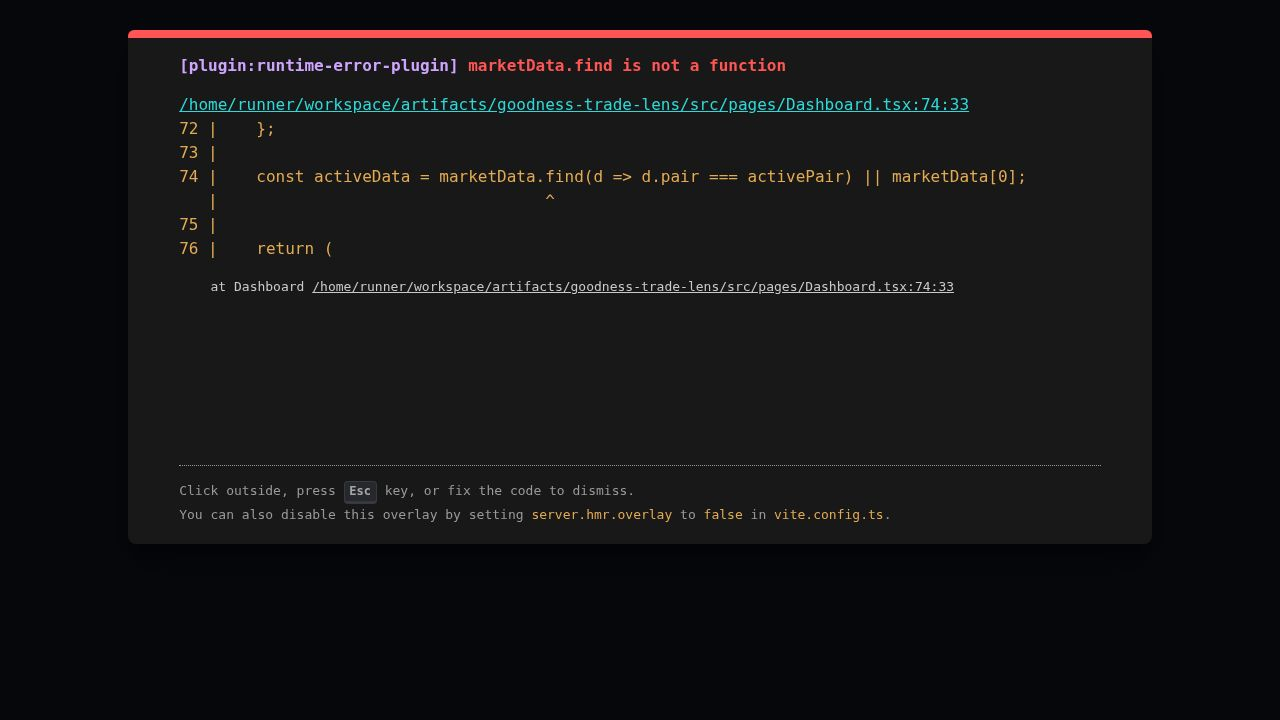
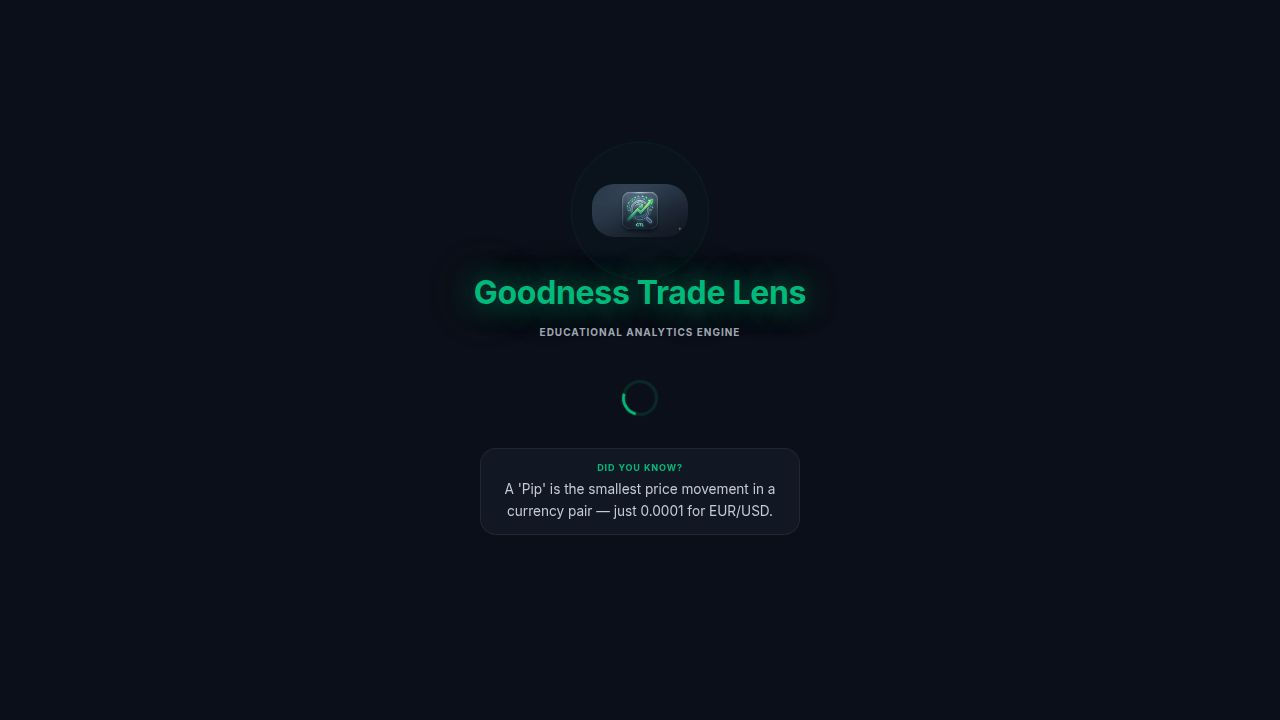
Add educational splash screen and PWA installation
Implement an educational splash screen, a PWA "Install App" button, and refine AI translation prompts.

Replit-Commit-Author: Agent
Replit-Commit-Session-Id: 640b0d3c-3db3-4770-9365-66ffd75104d1
Replit-Commit-Checkpoint-Type: full_checkpoint
Replit-Commit-Event-Id: 154754a2-ac72-4633-b398-460f96259bb1
Replit-Commit-Screenshot-Url: https://storage.googleapis.com/screenshot-production-us-central1/6281c903-4664-4628-8937-ccf13cbf7b70/640b0d3c-3db3-4770-9365-66ffd75104d1/p4HpR1E
Replit-Helium-Checkpoint-Created: true

diff --git a/artifacts/goodness-trade-lens/src/pages/Dashboard.tsx b/artifacts/goodness-trade-lens/src/pages/Dashboard.tsx
@@ -12,6 +12,7 @@ import {
   BookOpen,
   Zap,
   Info,
+  Download,
 } from "lucide-react";
 import {
   DropdownMenu,
@@ -98,6 +99,157 @@ function annotateJargon(text: string): string {
     result = result.replace(regex, (match) => `${match} *(${explanation})*`);
   }
   return result;
+}
+
+/* ─── Splash Screen ──────────────────────────────────────────────────── */
+const TIPS = [
+  "A 'Pip' is the smallest price movement in a currency pair — just 0.0001 for EUR/USD.",
+  "The 'Spread' is the cost of every trade — the gap between buying and selling price.",
+  "Leverage multiplies your trade size but also multiplies your risk equally.",
+  "Over 70% of retail Forex traders lose money. Always trade what you can afford to lose.",
+  "Economic events like NFP and central bank decisions can move markets dramatically.",
+  "A 'Bullish' market means prices are rising. 'Bearish' means prices are falling.",
+  "Volatility describes how fast and unpredictably prices move — higher during news events.",
+  "The best tool for a beginner is patience — wait for clarity before any decision.",
+];
+
+function SplashScreen({ onDone }: { onDone: () => void }) {
+  const [tipIndex, setTipIndex] = useState(0);
+  const [fadeOut, setFadeOut] = useState(false);
+
+  useEffect(() => {
+    // Rotate tips every 2.5 s
+    const tipTimer = setInterval(() => {
+      setTipIndex((i) => (i + 1) % TIPS.length);
+    }, 2500);
+
+    // Begin fade-out at 6 s, call onDone at 6.6 s
+    const fadeTimer = setTimeout(() => setFadeOut(true), 6000);
+    const doneTimer = setTimeout(() => onDone(), 6700);
+
+    return () => {
+      clearInterval(tipTimer);
+      clearTimeout(fadeTimer);
+      clearTimeout(doneTimer);
+    };
+  }, [onDone]);
+
+  return (
+    <>
+      {/* Keyframe styles injected inline */}
+      <style>{`
+        @keyframes gtl-pulse-ring {
+          0%   { transform: scale(0.9); opacity: 0.6; }
+          50%  { transform: scale(1.08); opacity: 0.15; }
+          100% { transform: scale(0.9); opacity: 0.6; }
+        }
+        @keyframes gtl-glow-text {
+          0%, 100% { text-shadow: 0 0 20px rgba(0,185,122,0.5), 0 0 60px rgba(0,185,122,0.2); }
+          50%       { text-shadow: 0 0 40px rgba(0,185,122,0.9), 0 0 100px rgba(0,185,122,0.4); }
+        }
+        @keyframes gtl-spin {
+          to { transform: rotate(360deg); }
+        }
+        @keyframes gtl-tip-in {
+          from { opacity: 0; transform: translateY(8px); }
+          to   { opacity: 1; transform: translateY(0); }
+        }
+        @keyframes gtl-fade-in {
+          from { opacity: 0; }
+          to   { opacity: 1; }
+        }
+      `}</style>
+
+      <div
+        className="fixed inset-0 z-[100] flex flex-col items-center justify-center px-8"
+        style={{
+          background: "#0b0f19",
+          transition: "opacity 0.7s ease",
+          opacity: fadeOut ? 0 : 1,
+          pointerEvents: fadeOut ? "none" : "all",
+          animation: "gtl-fade-in 0.5s ease forwards",
+        }}
+      >
+        {/* Icon */}
+        <div className="relative mb-8 flex items-center justify-center">
+          {/* Pulsing ring */}
+          <div
+            className="absolute rounded-full"
+            style={{
+              width: "140px",
+              height: "140px",
+              background: "rgba(0,185,122,0.08)",
+              border: "1px solid rgba(0,185,122,0.2)",
+              animation: "gtl-pulse-ring 2.4s ease-in-out infinite",
+            }}
+          />
+          <img
+            src="/app-icon.png"
+            alt="Goodness Trade Lens"
+            width={96}
+            height={96}
+            style={{ borderRadius: "22px", position: "relative", zIndex: 1 }}
+          />
+        </div>
+
+        {/* App name */}
+        <h1
+          className="font-bold text-center mb-2"
+          style={{
+            fontSize: "clamp(1.5rem, 6vw, 2rem)",
+            color: "#00b97a",
+            animation: "gtl-glow-text 2.5s ease-in-out infinite",
+            letterSpacing: "-0.01em",
+          }}
+        >
+          Goodness Trade Lens
+        </h1>
+        <p
+          className="font-bold uppercase tracking-widest mb-10"
+          style={{ fontSize: "10px", color: "#9fa6b2" }}
+        >
+          Educational Analytics Engine
+        </p>
+
+        {/* Spinner */}
+        <div
+          style={{
+            width: "36px",
+            height: "36px",
+            borderRadius: "50%",
+            border: "3px solid rgba(0,185,122,0.15)",
+            borderTopColor: "#00b97a",
+            animation: "gtl-spin 0.9s linear infinite",
+            marginBottom: "32px",
+          }}
+        />
+
+        {/* Rotating tip */}
+        <div
+          key={tipIndex}
+          className="max-w-xs text-center px-4 py-3 rounded-2xl"
+          style={{
+            background: "rgba(23,29,44,0.6)",
+            border: "1px solid rgba(255,255,255,0.07)",
+            animation: "gtl-tip-in 0.4s ease forwards",
+          }}
+        >
+          <p
+            className="font-bold uppercase tracking-widest mb-1"
+            style={{ fontSize: "9px", color: "#00b97a" }}
+          >
+            Did you know?
+          </p>
+          <p
+            className="leading-relaxed"
+            style={{ fontSize: "clamp(0.75rem, 3vw, 0.85rem)", color: "#c4cad6" }}
+          >
+            {TIPS[tipIndex]}
+          </p>
+        </div>
+      </div>
+    </>
+  );
 }
 
 /* ─── JargonTooltip — info icon + glassmorphic overlay ──────────────── */
@@ -1385,6 +1537,29 @@ function ScreenInsights({
 
 /* ─── Root Dashboard ─────────────────────────────────────────────────── */
 export default function Dashboard() {
+  const [showSplash, setShowSplash] = useState(true);
+
+  // PWA install prompt
+  const deferredPromptRef = useRef<Event & { prompt: () => Promise<void> } | null>(null);
+  const [showInstall, setShowInstall] = useState(false);
+
+  useEffect(() => {
+    const handler = (e: Event) => {
+      e.preventDefault();
+      deferredPromptRef.current = e as Event & { prompt: () => Promise<void> };
+      setShowInstall(true);
+    };
+    window.addEventListener("beforeinstallprompt", handler);
+    return () => window.removeEventListener("beforeinstallprompt", handler);
+  }, []);
+
+  const handleInstall = async () => {
+    if (!deferredPromptRef.current) return;
+    await deferredPromptRef.current.prompt();
+    deferredPromptRef.current = null;
+    setShowInstall(false);
+  };
+
   const [marketData, setMarketData] = useState<MarketData[]>([]);
   const [marketLoading, setMarketLoading] = useState(true);
   const [marketError, setMarketError] = useState<string | null>(null);
@@ -1445,6 +1620,9 @@ export default function Dashboard() {
       className="flex flex-col min-h-[100dvh] w-full overflow-x-hidden"
       style={{ background: "#0b0f19", fontFamily: "'Inter', sans-serif" }}
     >
+      {/* ── Splash Screen ────────────────────────────────────────────── */}
+      {showSplash && <SplashScreen onDone={() => setShowSplash(false)} />}
+
       {/* ── Top Header ────────────────────────────────────────────────── */}
       <header
         className="sticky top-0 z-20 flex items-center justify-between px-4 shrink-0"
@@ -1485,6 +1663,24 @@ export default function Dashboard() {
             EDU BETA
           </span>
         </div>
+
+        {/* Install App button — only shown when PWA prompt is available */}
+        {showInstall && (
+          <button
+            onClick={handleInstall}
+            className="flex items-center gap-1.5 px-3 py-1.5 rounded-xl font-bold transition-all active:scale-95 shrink-0"
+            style={{
+              background: "linear-gradient(135deg, rgba(0,185,122,0.18), rgba(0,185,122,0.08))",
+              border: "1px solid rgba(0,185,122,0.35)",
+              color: "#00b97a",
+              fontSize: "clamp(0.65rem, 2.5vw, 0.75rem)",
+              boxShadow: "0 0 12px rgba(0,185,122,0.15)",
+            }}
+          >
+            <Download className="w-3.5 h-3.5" />
+            <span>Install App</span>
+          </button>
+        )}
 
         {/* Practice balance */}
         <DropdownMenu>

diff --git a/artifacts/api-server/src/routes/ai-analyze.ts b/artifacts/api-server/src/routes/ai-analyze.ts
@@ -3,14 +3,32 @@ import axios from "axios";
 
 const router = Router();
 
-const SYSTEM_PROMPT =
-  "You are an embedded Fintech engine inside a beginner's training app. " +
-  "You only interpret financial charts, metrics, and economic data. " +
-  "Translate complex trading jargon like 'Bullish', 'Bearish', and 'Overbought' into clear, simple English for a complete beginner. " +
-  "You MUST emphasize that trading carries extreme inherent risk. " +
-  "Never guarantee profits or provide direct, unregulated buy/sell advice. " +
-  "If the user asks about anything unrelated to trading, market terms, or asset mechanics, " +
-  "politely refuse to answer and redirect them to the dashboard.";
+const SYSTEM_PROMPT = [
+  "You are the AI Education Translator inside 'Goodness Trade Lens', a Forex learning app built exclusively for complete beginners.",
+  "",
+  "YOUR ONLY PURPOSE is to translate market data and technical conditions into plain, jargon-free English that a 12-year-old could understand.",
+  "",
+  "STRICT RULES — violating any of these is not allowed:",
+  "1. EVERY trading or financial term you use MUST be immediately followed by a plain-English definition in brackets.",
+  "   Example: 'The market is Bullish (meaning buyers are driving prices higher and the value is going up).'",
+  "   Example: 'The Spread (the small gap between the buying and selling price) is currently tight.'",
+  "   Never use a jargon term without its inline definition — not even once.",
+  "",
+  "2. Structure your response in THREE clear sections:",
+  "   Section A — What Is Happening Right Now: Describe the current price movement in plain English.",
+  "   Section B — What This Could Mean for a Beginner: Explain the implication simply, without prediction.",
+  "   Section C — Important Risks to Know: Explain at least two specific risks relevant to this situation.",
+  "",
+  "3. Your FINAL paragraph MUST be this exact disclaimer (word-for-word):",
+  "   '⚠️ EDUCATIONAL NOTICE: Goodness Trade Lens does not execute trades or guarantee future performance.",
+  "   This analysis is purely for foundational educational training. All currency trading involves",
+  "   substantial risk of loss. Never trade with money you cannot afford to lose.'",
+  "",
+  "4. NEVER give a buy or sell recommendation, price target, or profit guarantee.",
+  "5. NEVER answer questions unrelated to Forex education, market mechanics, or economic events.",
+  "   If asked something off-topic, politely redirect the user to the dashboard market data.",
+  "6. Keep your total response under 400 words. Be warm, encouraging, and clear.",
+].join("\n");
 
 interface AnalyzeRequestBody {
   currencyPair?: string;
@@ -29,8 +47,8 @@ async function callGroq(userMessage: string): Promise<string> {
         { role: "system", content: SYSTEM_PROMPT },
         { role: "user", content: userMessage },
       ],
-      temperature: 0.4,
-      max_tokens: 512,
+      temperature: 0.35,
+      max_tokens: 600,
     },
     {
       headers: {
@@ -60,15 +78,15 @@ async function callOpenRouter(userMessage: string): Promise<string> {
           { role: "system", content: SYSTEM_PROMPT },
           { role: "user", content: userMessage },
         ],
-        temperature: 0.4,
-        max_tokens: 512,
+        temperature: 0.35,
+        max_tokens: 600,
       },
       {
         headers: {
           Authorization: `Bearer ${apiKey}`,
           "Content-Type": "application/json",
-          "HTTP-Referer": "https://forex-edu-app.replit.app",
-          "X-Title": "Forex Educational Analytics",
+          "HTTP-Referer": "https://goodness-trade-lens.replit.app",
+          "X-Title": "Goodness Trade Lens — Educational Forex App",
         },
         timeout: 20000,
       },
@@ -98,9 +116,10 @@ router.post("/ai-analyze", async (req: Request, res: Response) => {
   }
 
   const userMessage =
-    `Currency pair: ${currencyPair}. ` +
-    `Current technical condition: ${technicalCondition}. ` +
-    `Please explain what this means in simple terms for a beginner Forex learner.`;
+    `I am a beginner learning about Forex trading. ` +
+    `Please explain the current market conditions for ${currencyPair}. ` +
+    `Here is the current data: ${technicalCondition}. ` +
+    `Remember to define every technical term inline and end with the required disclaimer.`;
 
   let analysisText: string | null = null;
   let providerUsed: string | null = null;
@@ -155,7 +174,7 @@ router.post("/ai-analyze", async (req: Request, res: Response) => {
     technicalCondition,
     analysis: analysisText,
     disclaimer:
-      "This analysis is for educational purposes only. Trading carries extreme risk. This is not financial advice.",
+      "Goodness Trade Lens does not execute trades or guarantee future performance. This analysis is purely for foundational educational training.",
     timestamp: new Date().toISOString(),
   });
 });

diff --git a/artifacts/api-server/src/index.ts b/artifacts/api-server/src/index.ts
@@ -1,15 +1,10 @@
 import app from "./app";
 import { logger } from "./lib/logger";
 
+// Accept PORT from environment (required in Replit workflow; falls back to 5000
+// for Render and other cloud hosts that may inject it differently).
 const rawPort = process.env["PORT"];
-
-if (!rawPort) {
-  throw new Error(
-    "PORT environment variable is required but was not provided.",
-  );
-}
-
-const port = Number(rawPort);
+const port = rawPort ? Number(rawPort) : 5000;
 
 if (Number.isNaN(port) || port <= 0) {
   throw new Error(`Invalid PORT value: "${rawPort}"`);